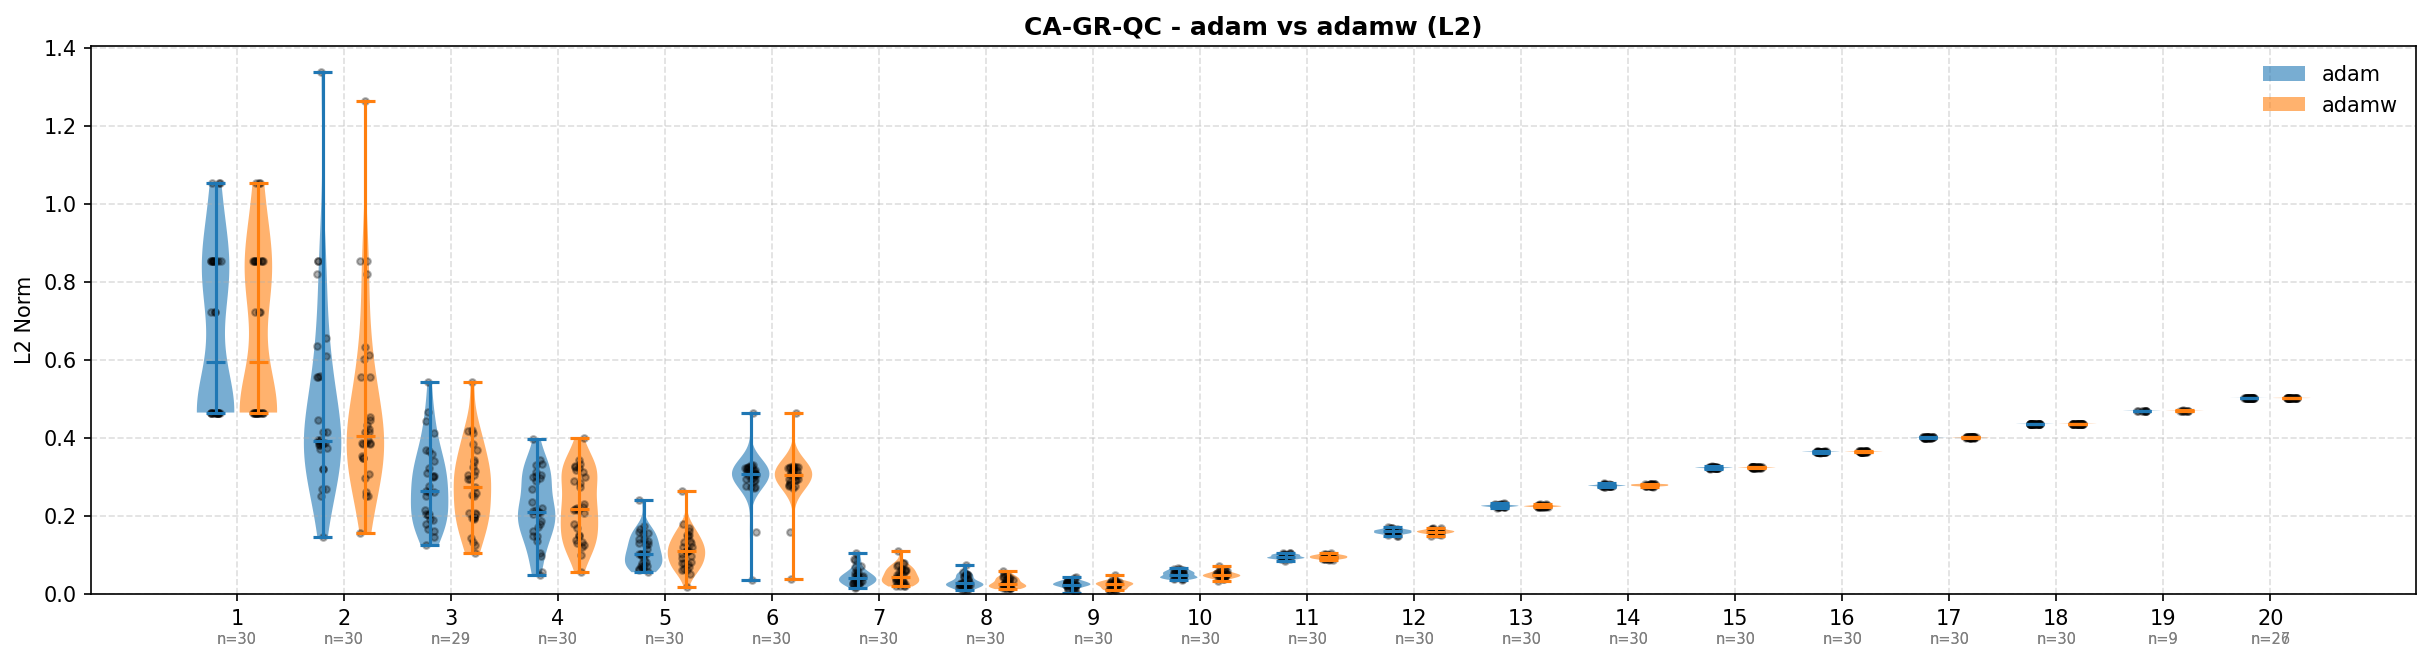
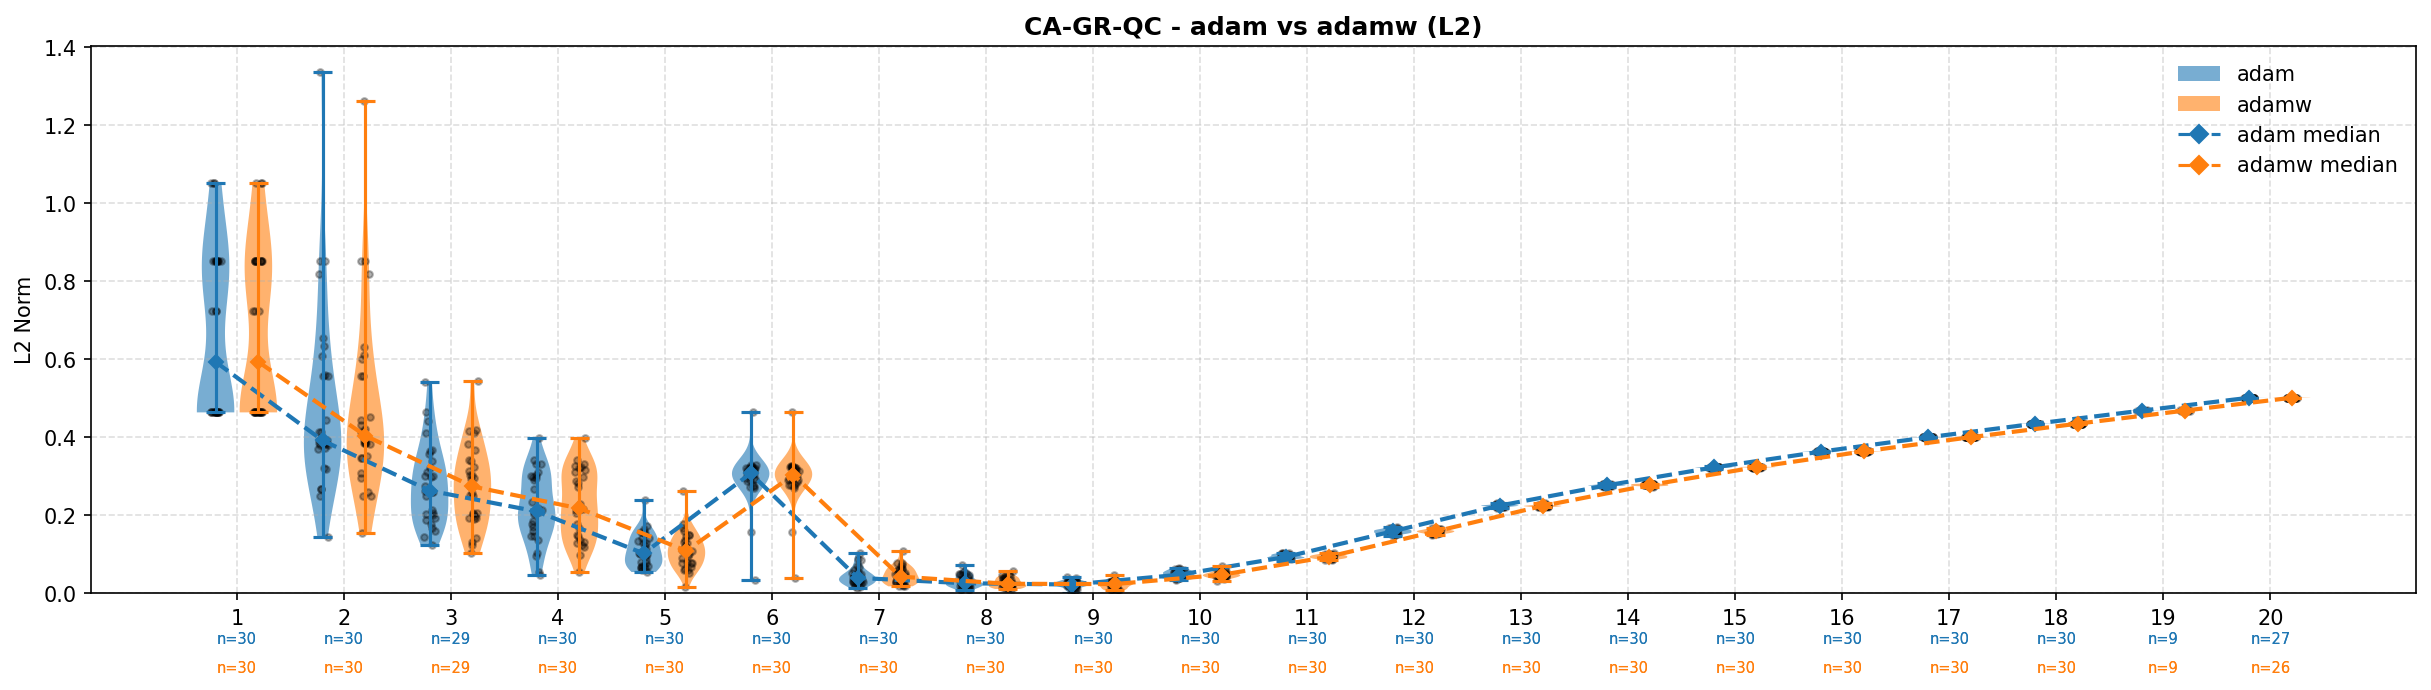
optimizer plots generated

diff --git a/mfit/optimizers/plots.py b/mfit/optimizers/plots.py
@@ -3,6 +3,7 @@ import numpy as np
 import pandas as pd
 import matplotlib
 from matplotlib.patches import Patch
+from matplotlib.lines import Line2D
 matplotlib.use("Agg")
 import matplotlib.pyplot as plt
 
@@ -14,7 +15,7 @@ OUTPUT_DIR = "./plots"
 os.makedirs(OUTPUT_DIR, exist_ok=True)
 
 # -----------------------------
-# Colors (FIXED ORDER)
+# Colors
 # -----------------------------
 COLORS = plt.rcParams["axes.prop_cycle"].by_key()["color"]
 
@@ -58,6 +59,7 @@ for dataset in os.listdir(RESULTS_DIR):
 
         df = pd.read_csv(csv_path)
         grouped = df.groupby("k")
+
         k_dict = {}
 
         for k, group in grouped:
@@ -83,12 +85,14 @@ for dataset in os.listdir(RESULTS_DIR):
 
     all_data[dataset] = dataset_dict
 
-# consistent y-axis
+# -----------------------------
+# Consistent Y-axis
+# -----------------------------
 y_pad = (global_max - global_min) * 0.05
 y_lim = (max(0, global_min - y_pad), global_max + y_pad)
 
 # -----------------------------
-# Violin Plot
+# Violin Plot (WITH MEDIAN LINES)
 # -----------------------------
 def violin_plot(dataset, opt1, opt2, data_dict):
     ks = sorted(set(data_dict[opt1].keys()) & set(data_dict[opt2].keys()))
@@ -102,7 +106,6 @@ def violin_plot(dataset, opt1, opt2, data_dict):
 
         positions = []
         groups = []
-        counts = []
 
         for k in ks:
             vals = data_dict[opt][k]
@@ -112,13 +115,12 @@ def violin_plot(dataset, opt1, opt2, data_dict):
             pos = k + (-offset if i == 0 else offset)
             positions.append(pos)
             groups.append(vals)
-            counts.append(len(vals))
 
         vp = ax.violinplot(
             groups,
             positions=positions,
             widths=0.35,
-            showmedians=True,
+            showmedians=False,  # we draw our own median
             showextrema=True
         )
 
@@ -137,16 +139,48 @@ def violin_plot(dataset, opt1, opt2, data_dict):
                 s=10
             )
 
+        # ---- MEDIAN LINE ----
+        medians = [np.median(vals) for vals in groups]
+
+        ax.plot(
+            positions,
+            medians,
+            linestyle="--",
+            linewidth=2,
+            marker="D",
+            markersize=5,
+            color=color,
+        )
+
         # annotate counts
-        for k, count in zip(ks, counts):
+        # ---- Sample count annotations (per optimizer) ----
+        for k in ks:
+            n1 = len(data_dict[opt1][k])
+            n2 = len(data_dict[opt2][k])
+
+            # First optimizer (slightly higher)
             ax.annotate(
-                f"n={count}",
+                f"n={n1}",
                 xy=(k, y_lim[0]),
+                xycoords="data",
                 ha="center",
                 va="top",
                 fontsize=7,
-                color="gray",
+                color=OPT_COLORS[opt1],
                 xytext=(0, -18),
+                textcoords="offset points"
+            )
+
+            # Second optimizer (slightly lower)
+            ax.annotate(
+                f"n={n2}",
+                xy=(k, y_lim[0]),
+                xycoords="data",
+                ha="center",
+                va="top",
+                fontsize=7,
+                color=OPT_COLORS[opt2],
+                xytext=(0, -32),
                 textcoords="offset points"
             )
 
@@ -156,11 +190,14 @@ def violin_plot(dataset, opt1, opt2, data_dict):
     ax.set_ylim(*y_lim)
     ax.grid(True, linestyle="--", alpha=0.4)
 
-    # legend
+    # ---- Legend ----
     legend_elements = [
         Patch(facecolor=OPT_COLORS[opt1], alpha=0.6, label=opt1),
         Patch(facecolor=OPT_COLORS[opt2], alpha=0.6, label=opt2),
+        Line2D([0], [0], color=OPT_COLORS[opt1], linestyle="--", marker="D", label=f"{opt1} median"),
+        Line2D([0], [0], color=OPT_COLORS[opt2], linestyle="--", marker="D", label=f"{opt2} median"),
     ]
+
     ax.legend(handles=legend_elements, fontsize=10, loc="upper right", frameon=False)
 
     fig.subplots_adjust(bottom=0.15)
@@ -202,11 +239,8 @@ def performance_plot(dataset, data_dict):
     ax.legend(frameon=False)
     ax.grid(True, linestyle="--", alpha=0.5)
 
-    fig.savefig(
-        os.path.join(OUTPUT_DIR, f"{dataset}_performance.png"),
-        dpi=150,
-        bbox_inches="tight"
-    )
+    fig.savefig(os.path.join(OUTPUT_DIR, f"{dataset}_performance.png"),
+                dpi=150, bbox_inches="tight")
     plt.close(fig)
 
 
@@ -239,16 +273,13 @@ def avg_l2_plot(dataset, data_dict):
     ax.legend(frameon=False)
     ax.grid(True, linestyle="--", alpha=0.5)
 
-    fig.savefig(
-        os.path.join(OUTPUT_DIR, f"{dataset}_avg_l2.png"),
-        dpi=150,
-        bbox_inches="tight"
-    )
+    fig.savefig(os.path.join(OUTPUT_DIR, f"{dataset}_avg_l2.png"),
+                dpi=150, bbox_inches="tight")
     plt.close(fig)
 
 
 # -----------------------------
-# Generate all plots
+# Generate plots
 # -----------------------------
 for dataset, data_dict in all_data.items():
     violin_plot(dataset, "adam", "adamw", data_dict)
